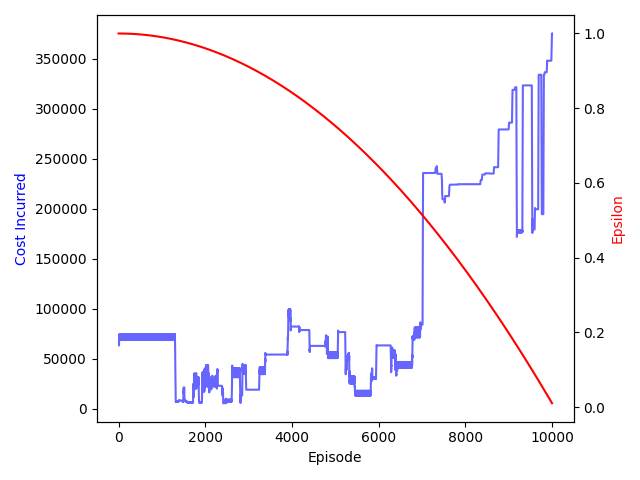
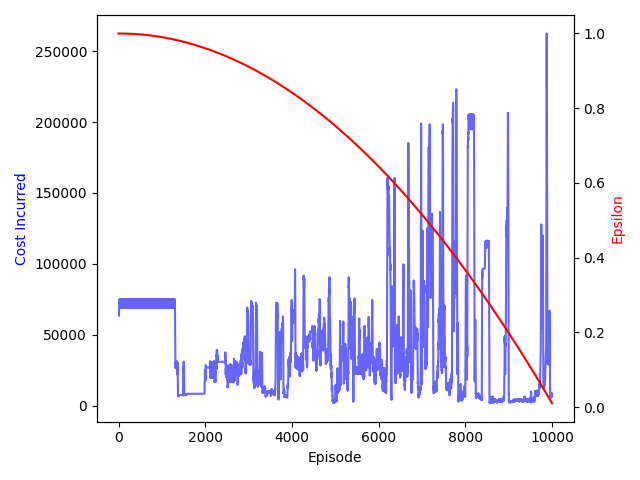
Debug

diff --git a/Simulator.py b/Simulator.py
@@ -53,7 +53,7 @@ initial_epsilon = 1.0
 final_epsilon = 0.01
 # agent = SupplyChainAgent.MonteCarloAgent(nA=num_actions, num_episodes=num_episodes, epsilon=initial_epsilon)
 agent = SupplyChainAgent.DQNAgent(gamma=0.99, epsilon=initial_epsilon, alpha=0.0005, input_dims=6,
-                                  n_actions=num_actions, mem_size=5000, batch_size=52)
+                                  n_actions=num_actions, mem_size=100000, batch_size=52)
 
 
 costs_incurred = []
@@ -116,13 +116,15 @@ for i_episode in tqdm(range(num_episodes)):
         myFactory.TakeTurn(thisWeek)
 
     costs_incurred.append(myWholesaler.GetCostIncurred())
+    agent.learn()
 
-    if i_episode % 1 == 0 and i_episode > 0:
-        agent.learn()
 
     # save model every xx episodes
     if i_episode % 5000 == 0 and i_episode > 0:
         agent.save_model()
+
+# save final agent
+agent.save_model()
 
 fig, ax1 = plt.subplots()
 ax1.set_xlabel('Episode')

diff --git a/Test.py b/Test.py
@@ -11,7 +11,6 @@ from theBeerGame.Settings import *
 from theBeerGame.SupplyChainQueue import SupplyChainQueue
 from theBeerGame.SupplyChainStatistics import SupplyChainStatistics
 from theBeerGame.Wholesaler import Wholesaler
-from ann_visualizer.visualize import ann_viz
 
 # set Pandas options
 pd.set_option('display.width', 2000)
@@ -144,5 +143,3 @@ df['done'] = dones
 df.to_csv('test1.csv')
 print(df)
 
-# print model graph
-ann_viz(agent.q_eval)
